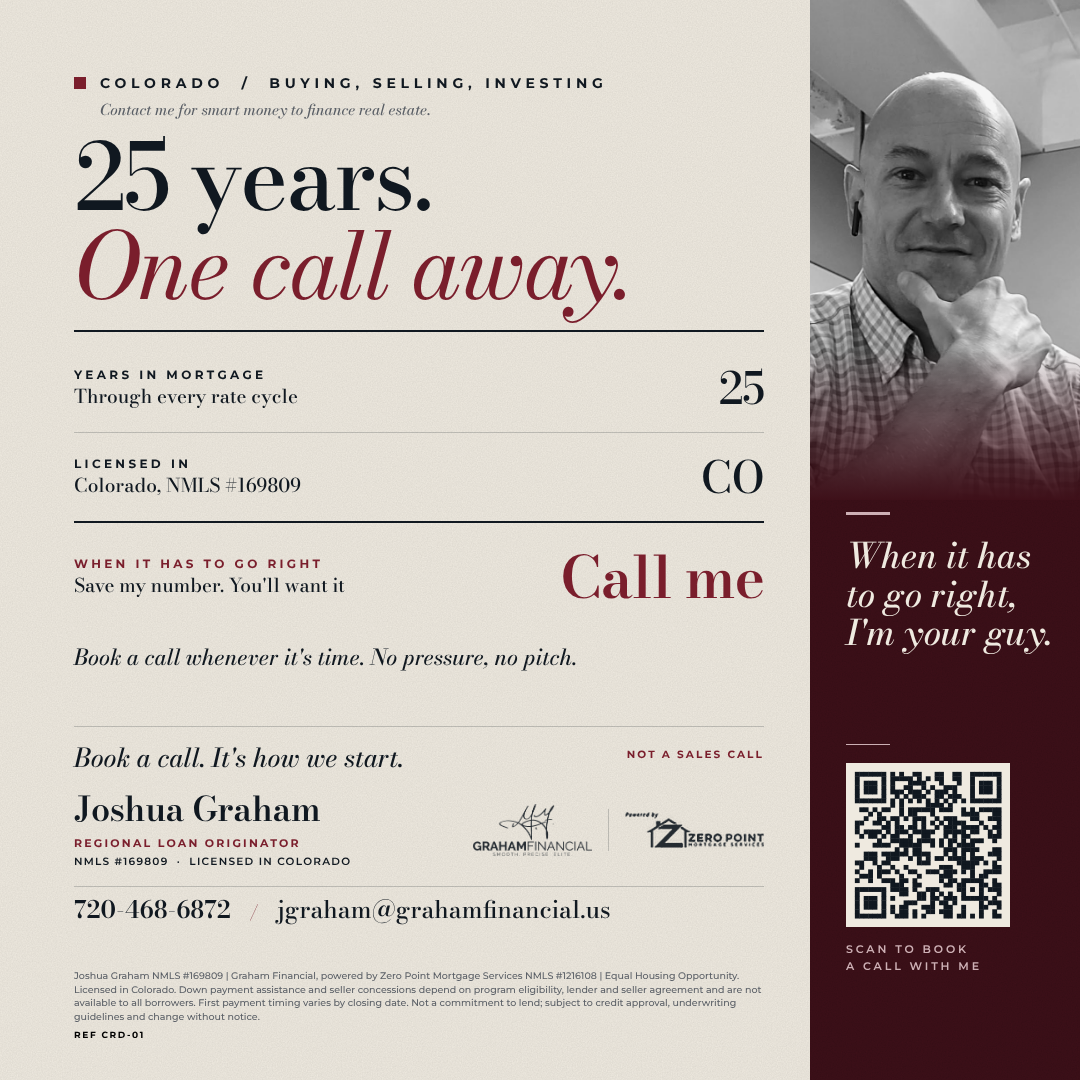
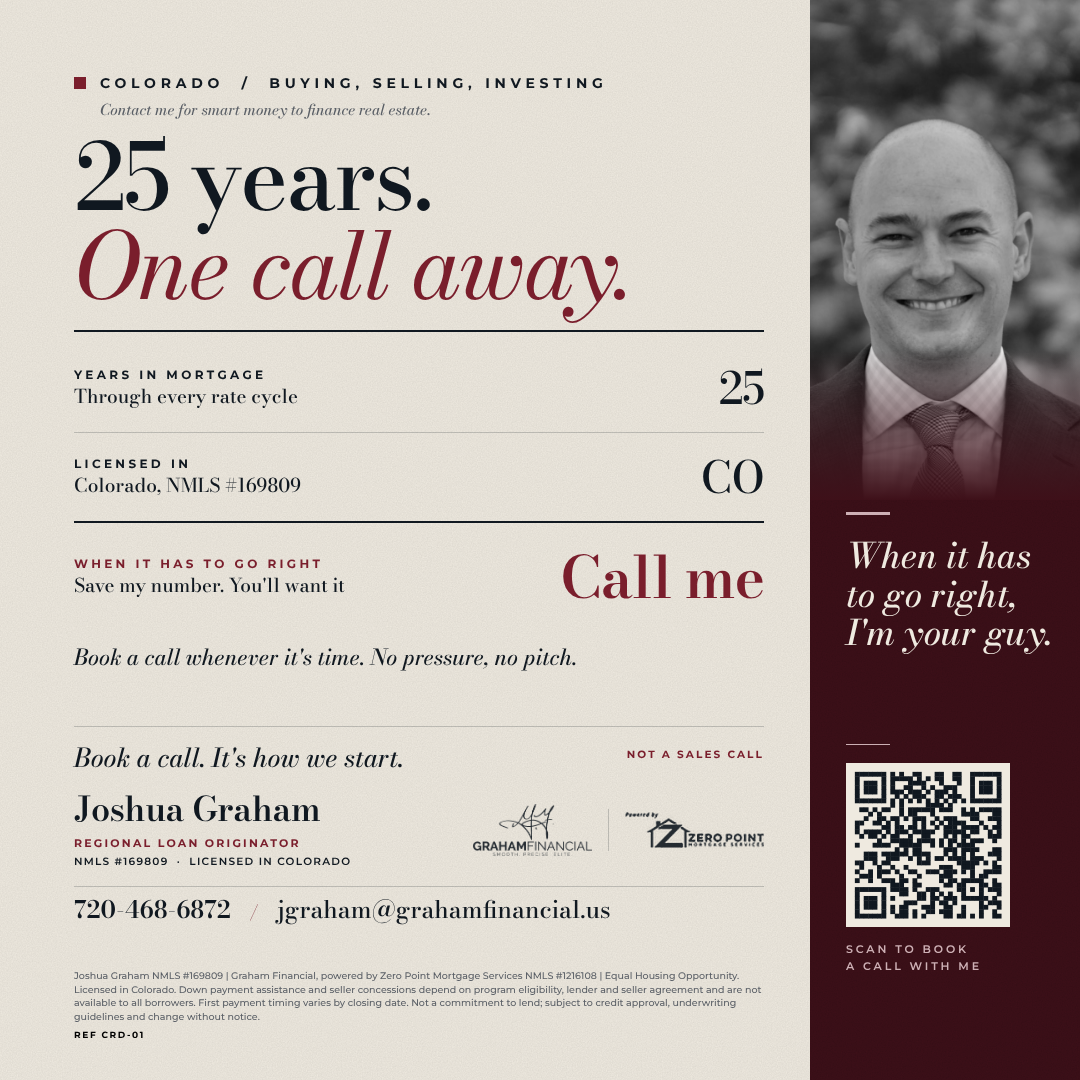
Bond flyers: photo on/off toggle in GUP (photo and text versions of every flyer), tie photo, copy fixes on first five
Claude-Session: https://claude.ai/code/session_01BCcskEaN45pwtrM4t2VKHx

Changed region(s): [[0.7333, 0.0, 1.0, 0.4278]]

diff --git a/src/smart-money/data.js b/src/smart-money/data.js
@@ -1042,7 +1042,7 @@ I'd rather show you your real numbers than guess. Think of me when you want your
     },
   },
   {
-    ref: "PAY-01", campaign: "bond", lane: "pay", bank: "consumer", name: "Own It for Less Than You Rent (roommates)", lender: "N/A — call; route to payment, DPA and seller-credit scenarios",
+    ref: "PAY-01", campaign: "bond", photoDefault: true, lane: "pay", bank: "consumer", name: "Own It for Less Than You Rent (roommates)", lender: "N/A — call; route to payment, DPA and seller-credit scenarios",
     audience: "consumer", license: "required", flyer: "/smart-money/flyers/PAY-01.png", footer: "pay",
     cta: `Book a call and I'll run YOUR numbers, roommates and all. It's not a sales call. When it has to go right, I'm your guy. Save my info 👉 ${BRAND.booking}`,
     painPoints: ["priced-out", "renting"], magnet: "book-5", skool: "Homebuyers",
@@ -1111,7 +1111,7 @@ Sellers are cutting prices, and credits of 3 to 6% of the price can come back to
 Book a call and I'll show you exactly how much you'd bring to closing. It's not a sales call.`,
     long: `The biggest block for most renters isn't the payment, it's the cash. Two things can change that:
 
-1. Seller credits. With more than half of Colorado listings taking price cuts, credits of 3 to 6% of the price are common on my deals. On a $400,000 home that is $12,000 to $24,000 back to you at closing.
+1. Seller credits. With price cuts common on Colorado listings right now, credits of 3 to 6% of the price are common on my deals. On a $400,000 home that is $12,000 to $24,000 back to you at closing.
 2. Down payment assistance, for buyers who qualify.
 
 Together, they can bring cash to close to near $0 in the right scenario. Not every buyer or home qualifies, so let's look at yours.
@@ -1133,14 +1133,14 @@ Book a call and I'll show you exactly how much you'd bring to closing. It's not 
     notes: "FHFA All-Transactions HPI, Q4 to Q4, 1976 to 2025, nominal. Always say U.S. or nationally; Denver is flat to down lately and prices CAN fall. Never write will appreciate. Data in tools/flyers/data/hpi_annual.json. This is the chart for every wealth-building post.",
     short: `U.S. home prices rose in 45 of the last 50 years. The only down stretch was 2007 to 2011.
 
-6% on $10,000 is about $600 a year. 3% on a $600,000 home is about $18,000. Same math, a much bigger base, and it's yours instead of your landlord's.
+A $400K home growing 3% a year can add about $12,000 in equity. That's yours, not your landlord's.
 
 Prices can fall and local markets vary, so let's look at your numbers.
 
 Book a call and I'll show you what owning could mean for YOU. It's not a sales call.`,
     long: `Nationally, home prices rose in 45 of the last 50 years (FHFA, not adjusted for inflation). The only down years were 2007 through 2011, and prices were back above the old peak about a decade after it.
 
-Here is why that matters. $10,000 invested at 6% earns about $600 a year. A $600,000 home that appreciates 3% grows about $18,000 in a year. Same percentages, a very different base, and when you rent, that growth belongs to your landlord.
+Here is why that matters. A $400,000 home that grows 3% in a year adds about $12,000 in equity. When you rent, any growth like that belongs to your landlord, not you.
 
 Appreciation is never guaranteed, local markets vary and Denver has been flat to down lately. It's about owning something over years, not a quick win.
 
@@ -1148,7 +1148,7 @@ Book a call and I'll show you what owning could mean for YOU. It's not a sales c
     video: {
       title: "Home prices rose in 45 of 50 years",
       hook: "Look at these numbers.",
-      points: ["The 50-year chart: 45 up years, only 2007 to 2011 down", "$600 on $10K vs. about $18K on a $600K home", "How I help"],
+      points: ["The 50-year chart: 45 up years, only 2007 to 2011 down", "A $400K home growing 3% a year can add about $12,000 in equity", "How I help"],
       cta: "Book a call and I'll show you what owning could mean for YOU. It's not a sales call. When it has to go right, I'm your guy. Save my info.",
     },
   },
@@ -1168,7 +1168,7 @@ Book a call and I'll show you what your equity can do. It's not a sales call.`,
 
 For homeowners and investors, that equity can become the down payment on a rental, without selling the home you love. How much you can use depends on the value, your credit and the program, and investment property financing is for business purposes and isn't available in every state.
 
-I'm a call away to run your real numbers. It's not a sales call. Book a consultation call with me. It's not a sales call. When it has to go right, I'm your guy. Save my info.`,
+Book a consultation call with me and I'll run your real numbers. It's not a sales call. When it has to go right, I'm your guy. Save my info.`,
     video: {
       title: "Your equity is dead money",
       hook: "Look at these numbers.",
@@ -1193,7 +1193,7 @@ I'm a call away to run your real numbers. It's not a sales call. Book a consulta
     },
   },
   {
-    ref: "DWN-02", campaign: "bond", lane: "cash", bank: "consumer", name: "Who Pays Your Closing Costs? The Seller Can. (renters)", lender: "N/A — call; route to the matching payment, DPA, seller-credit or equity scenario",
+    ref: "DWN-02", campaign: "bond", photoDefault: true, lane: "cash", bank: "consumer", name: "Who Pays Your Closing Costs? The Seller Can. (renters)", lender: "N/A — call; route to the matching payment, DPA, seller-credit or equity scenario",
     audience: "consumer", license: "required", flyer: "/smart-money/flyers/DWN-02.png", footer: "dpa",
     cta: `Book a call and I'll show you who can pay what. It's not a sales call. When it has to go right, I'm your guy. Save my info. 👉 ${BRAND.booking}`,
     painPoints: ["no-down-payment", "renting"], magnet: "book-5", skool: "Homebuyers",
@@ -1225,7 +1225,7 @@ I'm a call away to run your real numbers. It's not a sales call. Book a consulta
     },
   },
   {
-    ref: "EQT-02", campaign: "bond", lane: "equity", bank: "consumer", name: "One More Door Starts at Home (homeowners to investors)", lender: "N/A — call; route to the matching payment, DPA, seller-credit or equity scenario",
+    ref: "EQT-02", campaign: "bond", photoDefault: true, lane: "equity", bank: "consumer", name: "One More Door Starts at Home (homeowners to investors)", lender: "N/A — call; route to the matching payment, DPA, seller-credit or equity scenario",
     audience: "consumer", license: "required", flyer: "/smart-money/flyers/EQT-02.png", footer: "consumer",
     cta: `Book a call and let's see what your equity can open. It's not a sales call. When it has to go right, I'm your guy. Save my info. 👉 ${BRAND.booking}`,
     painPoints: ["equity-trapped", "stuck"], magnet: "book-5", skool: "Homebuyers",
@@ -1305,7 +1305,7 @@ I'm a call away to run your real numbers. It's not a sales call. Book a consulta
     },
   },
   {
-    ref: "CRD-01", campaign: "bond", lane: "cred", bank: "consumer", name: "25 Years. One Call Away. (credibility)", lender: "N/A — call; route to the matching payment, DPA, seller-credit or equity scenario",
+    ref: "CRD-01", campaign: "bond", photoDefault: true, lane: "cred", bank: "consumer", name: "25 Years. One Call Away. (credibility)", lender: "N/A — call; route to the matching payment, DPA, seller-credit or equity scenario",
     audience: "consumer", license: "required", flyer: "/smart-money/flyers/CRD-01.png", footer: "consumer",
     cta: `Book a call whenever it's time. It's not a sales call. When it has to go right, I'm your guy. Save my info. 👉 ${BRAND.booking}`,
     painPoints: ["trust"], magnet: "book-5", skool: "Homebuyers",

diff --git a/src/smart-money/SmartMoney.jsx b/src/smart-money/SmartMoney.jsx
@@ -73,8 +73,30 @@ function Tag({ children, tone = "neutral" }) {
 const audTag = (c) => c.audience === "intro" ? <Tag tone="neutral">Intro · post once per group</Tag> : c.audience === "agent" ? <Tag tone="neutral">Real estate agents</Tag> : c.audience === "business" ? <Tag tone="neutral">Business owners · equipment</Tag> : c.audience === "partner" ? <Tag tone="neutral">Referral partners · equipment</Tag> : <Tag tone={c.audience}>{c.audience === "investor" ? "Investor" : "Consumer"}</Tag>;
 const licTag = (c) => (c.audience === "intro" || c.audience === "agent") ? null : c.bank === "equipment" ? <Tag tone="warn">Nationwide · not CA</Tag> : c.license === "none" ? <Tag tone="good">No license needed · FL OK</Tag> : <Tag tone="warn">License required · CO only</Tag>;
 
+// Bond flyers come in two versions (-photo and -text). Per-flyer choice is remembered on this device.
+const photoMode = (card) => { if (!isBond(card)) return null; return store.get("sm_photo_" + card.ref) || (card.photoDefault ? "photo" : "text"); };
+function useFlyerSrc(card) {
+  const [, bump] = useState(0);
+  React.useEffect(() => { const h = () => bump((n) => n + 1); window.addEventListener("sm-photo", h); return () => window.removeEventListener("sm-photo", h); }, []);
+  const m = photoMode(card);
+  return card.flyer && m ? card.flyer.replace(/\.png$/, m === "photo" ? "-photo.png" : "-text.png") : card.flyer;
+}
+function PhotoToggle({ card }) {
+  useFlyerSrc(card);
+  if (!isBond(card)) return null;
+  const m = photoMode(card);
+  const set = (v) => { store.set("sm_photo_" + card.ref, v); window.dispatchEvent(new Event("sm-photo")); };
+  return (
+    <div style={{ display: "flex", gap: 8, alignItems: "center", flexWrap: "wrap" }}>
+      <span style={{ fontSize: 12, fontWeight: 700, color: C.muted, textTransform: "uppercase", letterSpacing: "0.06em" }}>Flyer version</span>
+      <button onClick={() => set("photo")} style={m === "photo" ? btn(C.navy) : ghost}>With my photo</button>
+      <button onClick={() => set("text")} style={m === "text" ? btn(C.navy) : ghost}>No photo</button>
+    </div>
+  );
+}
 function Flyer({ card, size = "100%" }) {
-  if (card.flyer) return <img src={card.flyer} alt={`${card.ref} flyer`} style={{ width: size, maxWidth: "100%", aspectRatio: "1/1", objectFit: "cover", borderRadius: 10, display: "block", border: `1px solid ${C.line}` }} />;
+  const src = useFlyerSrc(card);
+  if (card.flyer) return <img src={src} alt={`${card.ref} flyer`} style={{ width: size, maxWidth: "100%", aspectRatio: "1/1", objectFit: "cover", borderRadius: 10, display: "block", border: `1px solid ${C.line}` }} />;
   return (
     <div style={{ width: size, maxWidth: "100%", aspectRatio: "1/1", borderRadius: 10, background: C.navy, color: "#fff", display: "flex", flexDirection: "column", justifyContent: "center", gap: 8, padding: 20, boxSizing: "border-box" }}>
       <div style={{ fontFamily: F.display, fontWeight: 800, fontSize: 18 }}>{card.ref}</div>
@@ -84,7 +106,9 @@ function Flyer({ card, size = "100%" }) {
   );
 }
 
+function useFlyerSrcPlain(card) { const m = photoMode(card); return card.flyer && m ? card.flyer.replace(/\.png$/, m === "photo" ? "-photo.png" : "-text.png") : card.flyer; }
 function PostKit({ card, copyKind = "short" }) {
+  useFlyerSrc(card);
   const link = magnetLink(card);
   const m = MAGNETS[card.magnet];
   const body = card[copyKind];
@@ -94,6 +118,7 @@ function PostKit({ card, copyKind = "short" }) {
   const withBooking = `${body}${link ? `\n\n${link}` : ""}\n\n${cta}\n\n${footer}`;
   return (
     <div style={{ display: "flex", flexDirection: "column", gap: 12, minWidth: 0 }}>
+      <PhotoToggle card={card} />
       <div style={{ display: "flex", flexWrap: "wrap", gap: 6 }}>{audTag(card)}{licTag(card)}<Tag>REF {card.ref}</Tag>{card.was && <Tag>was {card.was}</Tag>}</div>
       {card.hooks && <div style={{ background: C.bg, border: `1px solid ${C.line}`, borderRadius: 10, padding: 14 }}>
         <div style={{ fontSize: 12, fontWeight: 700, color: C.muted, textTransform: "uppercase", letterSpacing: "0.06em", marginBottom: 6 }}>Color-block test hooks</div>
@@ -115,7 +140,7 @@ function PostKit({ card, copyKind = "short" }) {
         <CopyBtn text={withBooking} label="Copy post + booking link" />
         <CopyBtn text={BRAND.bookingCta} label="Copy booking CTA" />
         <CopyBtn text={footer} label="Copy footer" />
-        {card.flyer && <a href={card.flyer} download={`${card.ref}.png`} style={{ ...ghost, textDecoration: "none", display: "inline-flex", alignItems: "center" }}>Download flyer</a>}
+        {card.flyer && <a href={useFlyerSrcPlain(card)} download={`${card.ref}.png`} style={{ ...ghost, textDecoration: "none", display: "inline-flex", alignItems: "center" }}>Download flyer</a>}
       </div>
     </div>
   );

diff --git a/src/smart-money/contentKit.js b/src/smart-money/contentKit.js
@@ -114,7 +114,7 @@ export const KIT = [
     { id:"v-r-cash", kind:"Video", title:"Cash to close can be near $0", steps:["Recorded","Posted"],
       text: vid("You don't need as much cash as you think.",
         "Most renters stop at the down payment and closing costs.",
-        "Right now sellers are cutting prices and paying credits. Over half of Colorado listings have price cuts.",
+        "Right now sellers are cutting prices and paying credits, and price cuts are common on Colorado listings.",
         ["Seller credits of 3 to 6% of the price are common on my deals.", "Down payment assistance can cover more, for buyers who qualify.", "In the right scenario, cash to close can be near zero."],
         "Book a consultation call with me. It's not a sales call. When it has to go right, I'm your guy. Save my info."),
       caption:`Cash to close can be near $0 in the right scenario. Book a consultation call, it's not a sales call. 👉 ${BOOK}` },
@@ -122,7 +122,7 @@ export const KIT = [
       text: vid("Look at these numbers.",
         "Rent is a payment that builds your landlord's wealth.",
         "Nationally, home prices rose in 45 of the last 50 years. Only 2007 to 2011 went down. (Show the WLT-01 chart.)",
-        ["$10,000 at 6% earns about $600 a year.", "A $600,000 home appreciating 3% grows about $18,000 in a year. Same math, bigger base.", "Appreciation isn't guaranteed and Denver has been flat lately, so it's a years-long play."],
+        ["A $400K home growing 3% a year can add about $12,000 in equity.", "When you rent, that growth belongs to your landlord, not you.", "Appreciation isn't guaranteed and Denver has been flat lately, so it's a years-long play."],
         "Book a consultation call with me. It's not a sales call. When it has to go right, I'm your guy. Save my info."),
       caption:`U.S. home prices rose in 45 of the last 50 years. Let's talk about what that could mean for you. Not a sales call. 👉 ${BOOK}` },
     { id:"v-r-equity", kind:"Video", title:"Your equity is dead money (homeowners and investors)", steps:["Recorded","Posted"],

diff --git a/dist/index.html b/dist/index.html
@@ -7,7 +7,7 @@
     <meta name="theme-color" content="#1e6e4a" />
     <link rel="manifest" href="/manifest.json" />
     <title>Get Unlocked Producer</title>
-    <script type="module" crossorigin src="/assets/main-dabd60e6.js"></script>
+    <script type="module" crossorigin src="/assets/main-1736450b.js"></script>
     <link rel="modulepreload" crossorigin href="/assets/client-aa6f12be.js">
     <link rel="modulepreload" crossorigin href="/assets/supabase-3cfa4bd6.js">
   </head>

diff --git a/tools/flyers/gen_elite.py b/tools/flyers/gen_elite.py
@@ -202,13 +202,23 @@ CARDS = {
         rpad=22, rule_top=330, cta="Book a call. It&#39;s how we start.", foot=FOOT_CONSUMER, foot_px=9.5),
 }
 
-# ---- Photo toggle: his face on about 1 in 4 Bond flyers. Add a ref to PHOTO_ON to put the photo on it.
+# ---- Photo toggle. Every Bond flyer is rendered both ways: REF-photo.png (tie photo) and REF-text.png (text-only panel).
+# REF.png is the default one; GUP lets him switch per flyer. Add a ref to PHOTO_ON to make photo the default.
 BOND_REFS = ["PAY-01","PAY-02","PAY-03","PAY-04","DWN-01","DWN-02","DWN-03","WLT-01","WLT-02","WLT-03","EQT-01","EQT-02","EQT-03","CRD-01"]
 PHOTO_ON = {"CRD-01", "PAY-01", "DWN-02", "EQT-02"}
+TEXT_PANEL = "When it<br>has to go<br>right,<br>I&#39;m your<br>guy."
+def _variant(c, photo):
+    c = dict(c)
+    if photo:
+        c["photo"] = dict(COMMON["photo"]); c["photo_line"] = COMMON["photo_line"]; c.pop("panel_line", None); c.pop("panel_px", None)
+    else:
+        c.pop("photo", None); c.pop("photo_line", None); c["panel_line"] = TEXT_PANEL; c["panel_px"] = 50
+    return c
+VARIANTS = {}
 for _ref in BOND_REFS:
-    if _ref not in PHOTO_ON:
-        _c = CARDS[_ref]; _c.pop("photo", None); _c.pop("photo_line", None)
-        _c["panel_line"] = "When it<br>has to go<br>right,<br>I&#39;m your<br>guy."; _c["panel_px"] = 50
+    VARIANTS[_ref + "-photo"] = _variant(CARDS[_ref], True)
+    VARIANTS[_ref + "-text"] = _variant(CARDS[_ref], False)
+    CARDS[_ref] = VARIANTS[_ref + ("-photo" if _ref in PHOTO_ON else "-text")]
 
 def qr_svg(url, px, dark, light):
     import segno
@@ -339,11 +349,11 @@ def page(ref, c):
         html_out = html_out.replace("right:0;", "left:0;").replace("left:74px", "left:344px")
     return html_out
 
-def render(ref, c, outdir):
+def render(ref, c, outdir, name=None):
     tmp = tempfile.mkdtemp()
     html = os.path.join(tmp, ref + ".html")
     open(html, "w").write(page(ref, c))
-    png = os.path.join(outdir, ref + ".png")
+    png = os.path.join(outdir, (name or ref) + ".png")
     os.makedirs(outdir, exist_ok=True)
     subprocess.run(["google-chrome", "--headless=new", "--no-sandbox", "--disable-gpu", "--hide-scrollbars", "--allow-file-access-from-files",
                     "--window-size=1080,1080", "--virtual-time-budget=3000", f"--screenshot={png}", "file://" + html],
@@ -357,3 +367,6 @@ if __name__ == "__main__":
         i = args.index("--out"); out = args[i + 1]; args = args[:i] + args[i + 2:]
     for ref in (args or list(CARDS)):
         print(render(ref, CARDS[ref], out))
+        if ref in BOND_REFS:
+            for v in ("photo", "text"):
+                print(render(ref, VARIANTS[ref + "-" + v], out, name=ref + "-" + v))
